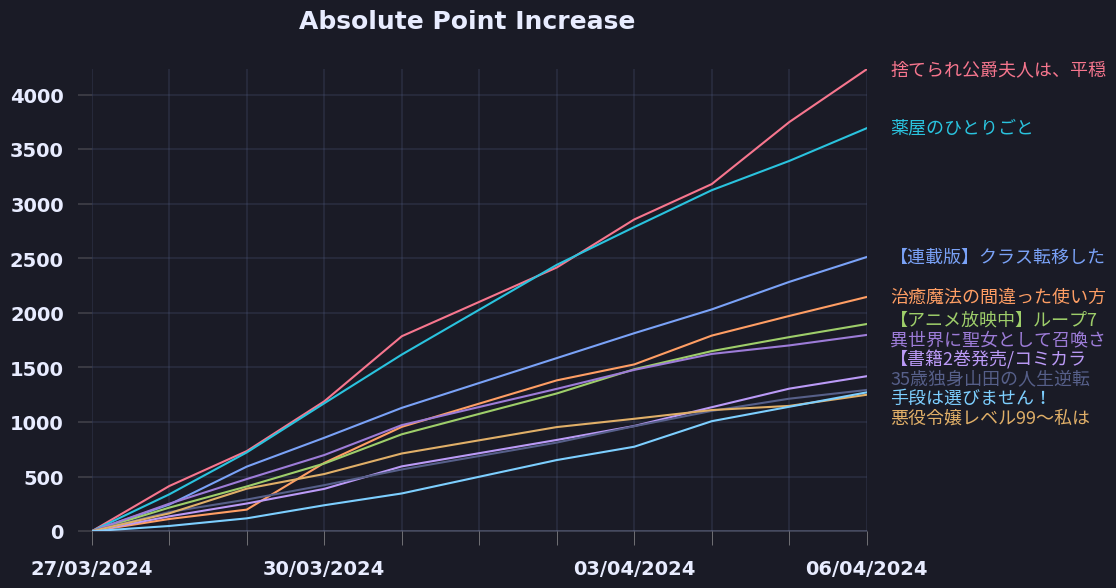
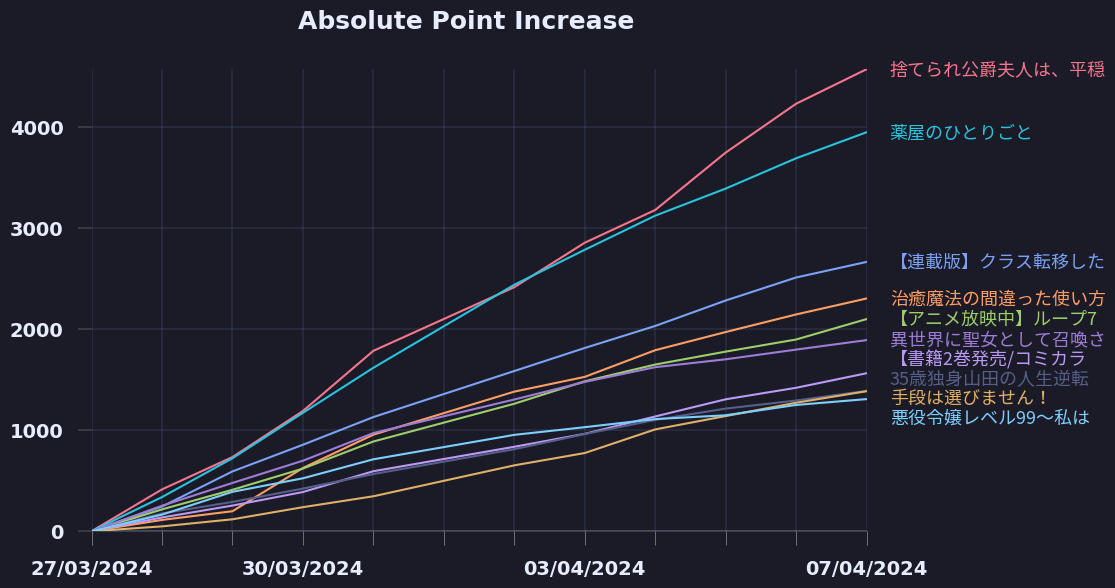
update plots

diff --git a/README.md b/README.md
@@ -16,5 +16,5 @@
 6. [異世界に聖女として召喚されましたが、私はただのアラサー女です](https://ncode.syosetu.com/n4293io/)
 7. [【書籍2巻発売/コミカライズ連載中】悪役令嬢の矜持〜婚約者を奪い取って義姉を追い出した私は、どうやら今から破滅するようです。〜](https://ncode.syosetu.com/n0753hr/)
 8. [35歳独身山田の人生逆転魔法　～現代社会に疲れた俺は異世界でスローライフを楽しむために現代で悪魔と戦って金儲けをしながら異世界村を発展させることにしました～](https://ncode.syosetu.com/n3115io/)
-9. [悪役令嬢レベル99～私は裏ボスですが魔王ではありません～（←このタイトル間違いでした。本作は”光の魔法と勇者様”です）](https://ncode.syosetu.com/n0284ev/)
-10. [手段は選びません！](https://ncode.syosetu.com/n7834io/)
+9. [手段は選びません！](https://ncode.syosetu.com/n7834io/)
+10. [悪役令嬢レベル99～私は裏ボスですが魔王ではありません～（←このタイトル間違いでした。本作は”光の魔法と勇者様”です）](https://ncode.syosetu.com/n0284ev/)
